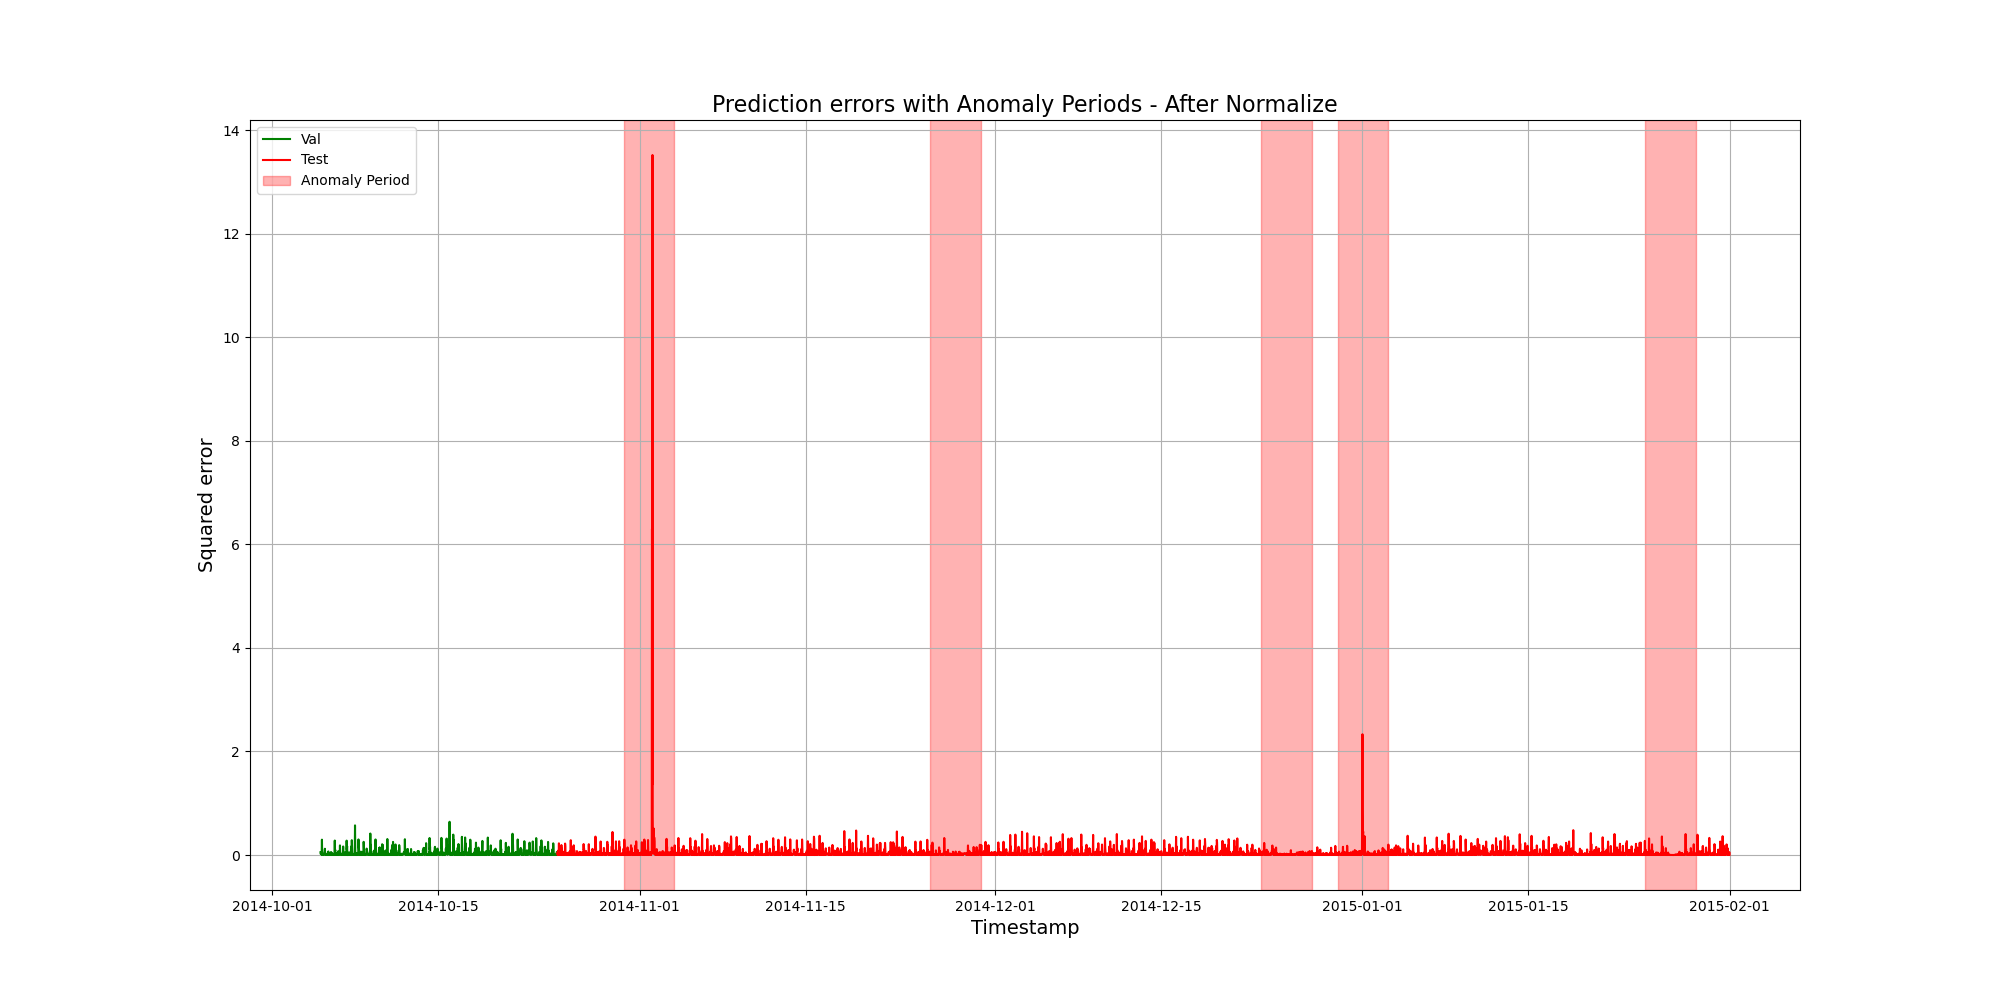
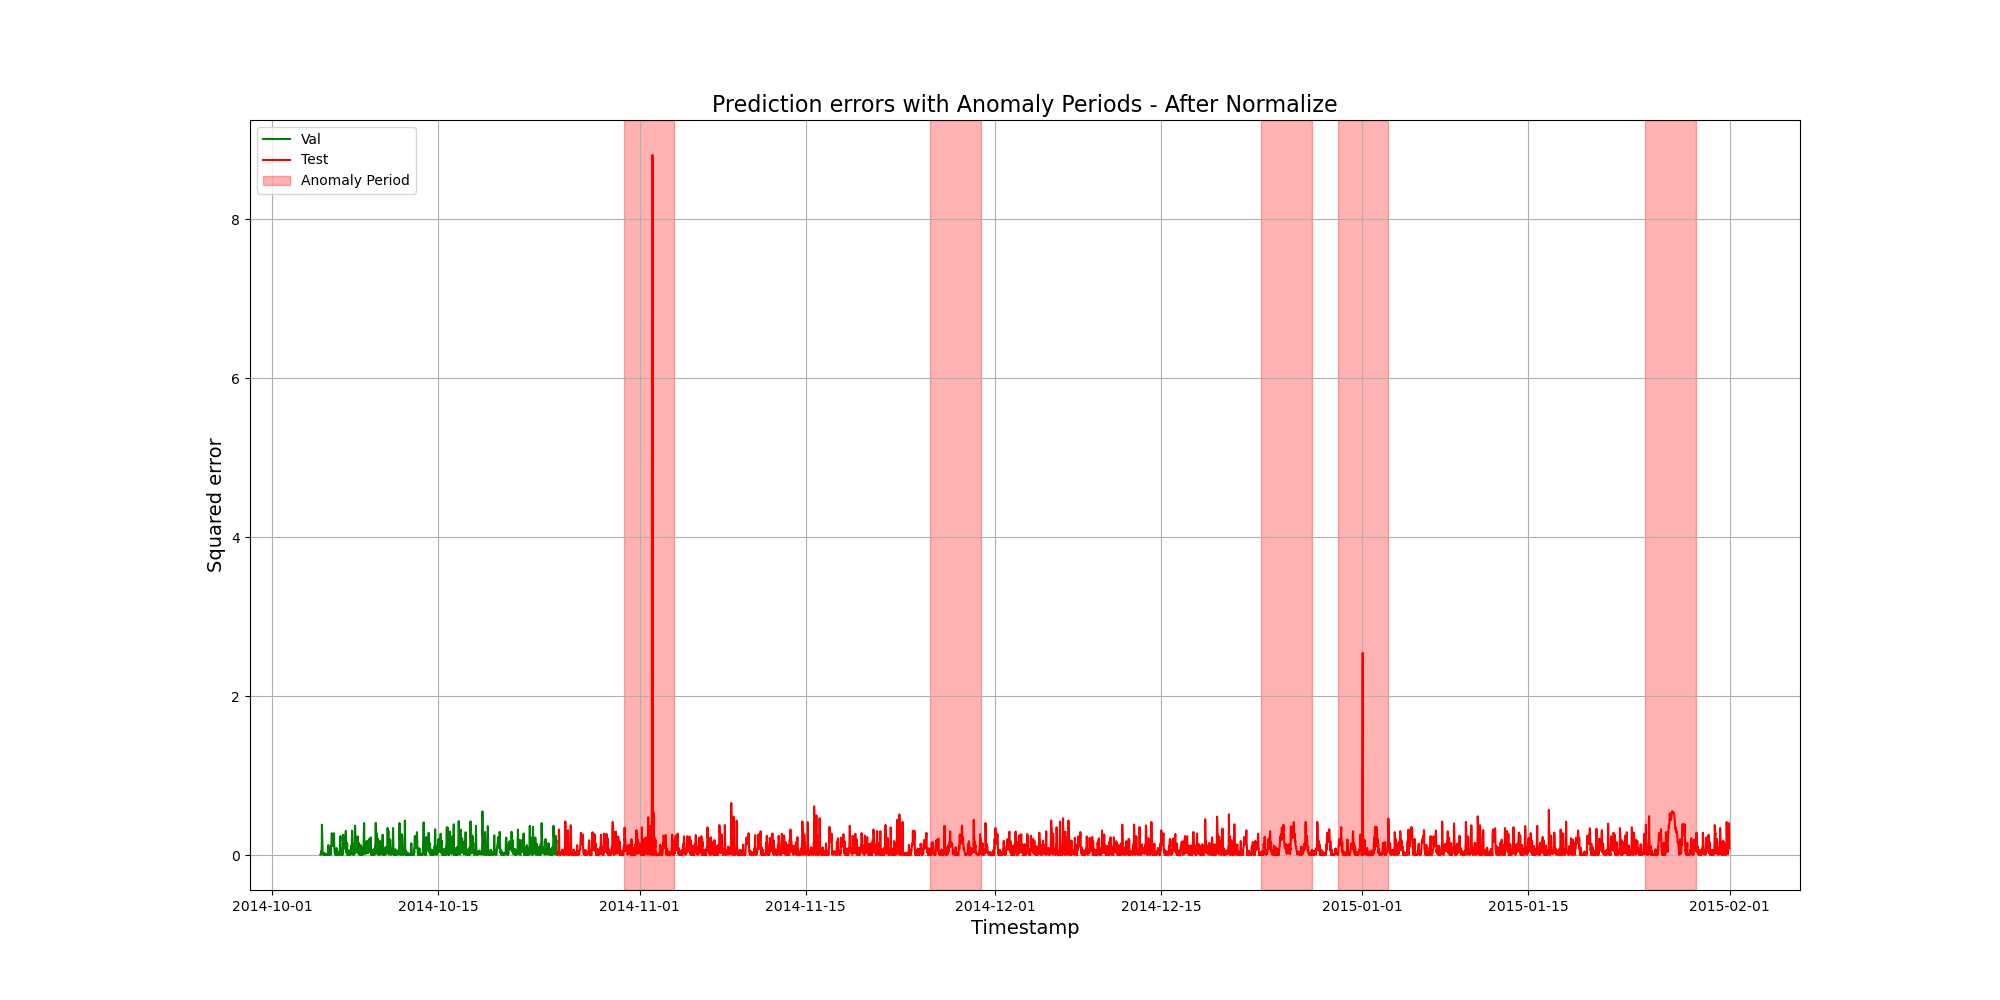
revin

Changed region(s): [[0.155, 0.806, 0.868, 0.868], [0.093, 0.434, 0.124, 0.558]]

diff --git a/nyctaxi/trainers/lstm.py b/nyctaxi/trainers/lstm.py
@@ -1,5 +1,6 @@
 import sys
-sys.path.append("/home/svilhes/Bureau/these/nyctaxi/")
+#sys.path.append("/home/svilhes/Bureau/these/nyctaxi/")
+sys.path.append("/Users/samyvilhes/Desktop/these/AnoTS/nyctaxi/") # mac
 
 import torch 
 import torch.nn as nn 
@@ -13,14 +14,17 @@ import numpy as np
 from dataset import get_datasets
 from models.lstm import LSTM
 
-DEVICE="cuda"
+DEVICE="mps"
 WINDOW=32
 BATCH_SIZE=128
 LR=1e-4
 EPOCHS=150
 
+REVIN=True
+ext = "_rev" if REVIN else ""
+
 trainset, valset, testset, dataset = get_datasets(window=WINDOW, lbl_as_feat=False)
-model = LSTM(num_cont_var=4, embedding_dim=2, hidden_size=128, num_layers=2, bidirectional=True).to(DEVICE)
+model = LSTM(num_cont_var=4, embedding_dim=2, hidden_size=128, num_layers=2, bidirectional=True, revin=REVIN).to(DEVICE)
 
 trainloader = DataLoader(trainset, batch_size=BATCH_SIZE, shuffle=True)
 criterion = nn.MSELoss()
@@ -33,6 +37,7 @@ for epoch in pbar:
     for x_cont, x_cat, target, anomaly in trainloader:
         x_cont, x_cat, target = x_cont.to(DEVICE), x_cat.to(DEVICE), target.unsqueeze(1).to(DEVICE)
         preds = model(x_cont, x_cat)
+        preds = preds.squeeze(2)
         loss = criterion(preds, target)
         optimizer.zero_grad()
         loss.backward()
@@ -42,7 +47,7 @@ for epoch in pbar:
     
 
 checkpoint = {"state_dict":model.state_dict()}
-torch.save(checkpoint, 'checkpoints/lstm.pkl')
+# torch.save(checkpoint, f'checkpoints/lstm{ext}.pkl')
 
 valloader = DataLoader(valset, batch_size=BATCH_SIZE, shuffle=False)
 testloader = DataLoader(testset, batch_size=BATCH_SIZE, shuffle=False)
@@ -54,6 +59,7 @@ with torch.no_grad():
     for x_cont, x_cat, target, anomaly in valloader:
             x_cont, x_cat, target = x_cont.to(DEVICE), x_cat.to(DEVICE), target.unsqueeze(1).to(DEVICE)
             val_preds = model(x_cont, x_cat)
+            val_preds = val_preds.squeeze(2)
             errors = torch.abs(target - val_preds)
             val_errors.append(errors)
 val_errors = torch.cat(val_errors).cpu()
@@ -65,14 +71,15 @@ model.eval()
 with torch.no_grad():
     for x_cont, x_cat, target, anomaly in testloader:
             x_cont, x_cat, target = x_cont.to(DEVICE), x_cat.to(DEVICE), target.unsqueeze(1).to(DEVICE)
-            val_preds = model(x_cont, x_cat)
-            errors = torch.abs(target - val_preds)
+            test_preds = model(x_cont, x_cat)
+            test_preds = test_preds.squeeze(2)
+            errors = torch.abs(target - test_preds)
             test_errors.append(errors)
 test_errors = torch.cat(test_errors).cpu()
 test_scores = - test_errors
 test_p_values = (1 + torch.sum(test_scores >= val_scores.squeeze(1), dim=1)) / (len(val_scores.squeeze(1)) + 1)
 
-np.save('pvalues/lstm.npy', test_p_values.numpy())
+np.save(f'pvalues/lstm{ext}.npy', test_p_values.numpy())
 # Visu
 train_indices = dataset.train_indices
 val_indices = dataset.val_indices
@@ -125,5 +132,5 @@ plt.xlabel('Timestamp', fontsize=14)
 plt.ylabel('Squared error', fontsize=14)
 plt.grid(True)
 
-plt.savefig('figures/lstm/prederrors.png')
+plt.savefig(f'figures/lstm/prederrors{ext}.png')
 plt.close()

diff --git a/nyctaxi/trainers/transam.py b/nyctaxi/trainers/transam.py
@@ -1,5 +1,6 @@
 import sys
-sys.path.append("/home/svilhes/Bureau/these/nyctaxi/")
+#sys.path.append("/home/svilhes/Bureau/these/nyctaxi/")
+sys.path.append("/Users/samyvilhes/Desktop/these/AnoTS/nyctaxi/") # mac
 
 import torch 
 import torch.nn as nn 
@@ -13,14 +14,17 @@ import numpy as np
 from dataset import get_datasets
 from models.transam import TransAm
 
-DEVICE="cuda"
+DEVICE="mps"
 WINDOW=32
 BATCH_SIZE=128
 LR=1e-4
 EPOCHS=150
 
+REVIN=True
+ext = "_rev" if REVIN else ""
+
 trainset, valset, testset, dataset = get_datasets(window=WINDOW, lbl_as_feat=False)
-model = TransAm().to(DEVICE)
+model = TransAm(revin=REVIN).to(DEVICE)
 
 trainloader = DataLoader(trainset, batch_size=BATCH_SIZE, shuffle=True)
 criterion = nn.MSELoss()
@@ -33,6 +37,7 @@ for epoch in pbar:
     for x_cont, x_cat, target, anomaly in trainloader:
         x_cont, x_cat, target = x_cont.to(DEVICE), x_cat.to(DEVICE), target.unsqueeze(1).to(DEVICE)
         preds = model(x_cont, x_cat)
+        preds = preds.squeeze(2)
         loss = criterion(preds, target)
         optimizer.zero_grad()
         loss.backward()
@@ -42,7 +47,7 @@ for epoch in pbar:
     
 
 checkpoint = {"state_dict":model.state_dict()}
-torch.save(checkpoint, 'checkpoints/transam.pkl')
+# torch.save(checkpoint, f'checkpoints/transam{ext}.pkl')
 
 valloader = DataLoader(valset, batch_size=BATCH_SIZE, shuffle=False)
 testloader = DataLoader(testset, batch_size=BATCH_SIZE, shuffle=False)
@@ -54,6 +59,7 @@ with torch.no_grad():
     for x_cont, x_cat, target, anomaly in valloader:
             x_cont, x_cat, target = x_cont.to(DEVICE), x_cat.to(DEVICE), target.unsqueeze(1).to(DEVICE)
             val_preds = model(x_cont, x_cat)
+            val_preds = val_preds.squeeze(2)
             errors = torch.abs(target - val_preds)
             val_errors.append(errors)
 val_errors = torch.cat(val_errors).cpu()
@@ -65,14 +71,15 @@ model.eval()
 with torch.no_grad():
     for x_cont, x_cat, target, anomaly in testloader:
             x_cont, x_cat, target = x_cont.to(DEVICE), x_cat.to(DEVICE), target.unsqueeze(1).to(DEVICE)
-            val_preds = model(x_cont, x_cat)
-            errors = torch.abs(target - val_preds)
+            test_preds = model(x_cont, x_cat)
+            test_preds = test_preds.squeeze(2)
+            errors = torch.abs(target - test_preds)
             test_errors.append(errors)
 test_errors = torch.cat(test_errors).cpu()
 test_scores = - test_errors
 test_p_values = (1 + torch.sum(test_scores >= val_scores.squeeze(1), dim=1)) / (len(val_scores.squeeze(1)) + 1)
 
-np.save('pvalues/transam.npy', test_p_values.numpy())
+np.save(f'pvalues/transam{ext}.npy', test_p_values.numpy())
 # Visu
 train_indices = dataset.train_indices
 val_indices = dataset.val_indices
@@ -125,5 +132,5 @@ plt.xlabel('Timestamp', fontsize=14)
 plt.ylabel('Squared error', fontsize=14)
 plt.grid(True)
 
-plt.savefig('figures/transam/prederrors.png')
+plt.savefig(f'figures/transam/prederrors{ext}.png')
 plt.close()

diff --git a/nyctaxi/trainers/patchtst.py b/nyctaxi/trainers/patchtst.py
@@ -1,6 +1,6 @@
 import sys
-sys.path.append("/home/svilhes/Bureau/these/nyctaxi/")
-# sys.path.append("/Users/samyvilhes/Desktop/these/AnoTS/nyctaxi") on my mac
+#sys.path.append("/home/svilhes/Bureau/these/nyctaxi/")
+sys.path.append("/Users/samyvilhes/Desktop/these/AnoTS/nyctaxi") #on my mac
 
 import torch 
 import torch.nn as nn 
@@ -16,12 +16,15 @@ from types import SimpleNamespace
 from dataset import get_datasets
 from models.patchtst.patchtst import Model
 
-DEVICE="cuda"
+DEVICE="cpu"
 BATCH_SIZE=128
-EPOCHS=100
+EPOCHS=10
 
 CONTEXT_WINDOW=10
 TARGET_WINDOW=1
+
+REVIN=False
+ext = "_rev" if REVIN else ""
 
 trainset, valset, testset, dataset = get_datasets(window=CONTEXT_WINDOW, lbl_as_feat=False)
 
@@ -40,7 +43,7 @@ args = {
     "stride":8,
     "individual":1,
     "padding_patch":"end",
-    "revin":1,
+    "revin":int(REVIN),
     "affine":1,
     "subtract_last":0,
     "decomposition":1,
@@ -84,7 +87,7 @@ checkpoint = {
     'model':model.state_dict(),
     'args':args
     }
-torch.save(checkpoint, 'checkpoints/patchtst.pkl')
+#torch.save(checkpoint, f'checkpoints/patchtst{ext}.pkl')
 
 valloader = DataLoader(valset, batch_size=BATCH_SIZE, shuffle=False)
 testloader = DataLoader(testset, batch_size=BATCH_SIZE, shuffle=False)
@@ -118,7 +121,7 @@ test_errors = torch.cat(test_errors).cpu()
 test_scores = - test_errors
 test_p_values = (1 + torch.sum(test_scores >= val_scores.squeeze(1), dim=1)) / (len(val_scores.squeeze(1)) + 1)
 
-np.save('pvalues/patchtst.npy', test_p_values.numpy())
+np.save(f'pvalues/patchtst{ext}.npy', test_p_values.numpy())
 # Visu
 train_indices = dataset.train_indices
 val_indices = dataset.val_indices
@@ -171,5 +174,5 @@ plt.xlabel('Timestamp', fontsize=14)
 plt.ylabel('Squared error', fontsize=14)
 plt.grid(True)
 
-plt.savefig('figures/patchtst/prederrors.png')
+plt.savefig(f'figures/patchtst/prederrors{ext}.png')
 plt.close()

diff --git a/nyctaxi/models/lstm.py b/nyctaxi/models/lstm.py
@@ -1,16 +1,25 @@
 import torch
 import torch.nn as nn 
+from models.revin import RevIN
 
 class LSTM(nn.Module):
     def __init__(self, num_cont_var=4, embedding_dim=2, hidden_size=128, num_layers=2, bidirectional=True, revin=False):
         super(LSTM, self).__init__()
+
         self.revin = revin
+        if self.revin: self.revin_layer = RevIN(1, affine=True, subtract_last=False)
+
         self.dow_embed = nn.Embedding(num_embeddings=7, embedding_dim=embedding_dim)
         self.holiday_embed = nn.Embedding(num_embeddings=2, embedding_dim=embedding_dim)
         self.lstm = nn.LSTM(input_size=2*embedding_dim + num_cont_var, hidden_size=hidden_size, num_layers=num_layers, batch_first=True, bidirectional=bidirectional)
         self.fc_out = nn.Linear(in_features=(1+bidirectional)*hidden_size, out_features=1)
 
     def forward(self, x_cont, x_cat):
+
+        if self.revin: 
+            amount = x_cont[:,:,0].unsqueeze(2)
+            amount = self.revin_layer(amount, 'norm')
+            x_cont[:, :, 0] = amount.squeeze(-1)
 
         x_dow = x_cat[:, :,0].int()
         x_holiday = x_cat[:, :,1].int()
@@ -21,4 +30,8 @@ class LSTM(nn.Module):
         concatenated = torch.cat([x_cont, dow_embedded, holiday_embedded], dim=2)
         output, (hidden, cell) = self.lstm(concatenated)
         output = self.fc_out(output)
-        return output[:, -1, :]
+        output = output[:, -1, :].unsqueeze(1)
+        if self.revin:
+            output = self.revin_layer(output, "denorm")
+        
+        return output

diff --git a/nyctaxi/models/transam.py b/nyctaxi/models/transam.py
@@ -1,5 +1,6 @@
 import torch 
-import torch.nn as nn 
+import torch.nn as nn
+from models.revin import RevIN
 
 class PositionalEncoding(nn.Module):
     def __init__(self, d_model, max_len=5000):
@@ -19,8 +20,11 @@ class PositionalEncoding(nn.Module):
         return pe + x
     
 class TransAm(nn.Module):
-    def __init__(self, embedding_dim=2, num_cont_var=4, proj_size=250, num_layers=1, dropout=0.1):
+    def __init__(self, embedding_dim=2, num_cont_var=4, proj_size=250, num_layers=1, dropout=0.1, revin=False):
         super(TransAm, self).__init__()
+
+        self.revin = revin
+        if self.revin: self.revin_layer = RevIN(1, affine=True, subtract_last=False)
 
         feature_size = 2*embedding_dim + num_cont_var
 
@@ -44,6 +48,11 @@ class TransAm(nn.Module):
 
     def forward(self, x_cont, x_cat):
 
+        if self.revin: 
+            amount = x_cont[:,:,0].unsqueeze(2)
+            amount = self.revin_layer(amount, 'norm')
+            x_cont[:, :, 0] = amount.squeeze(-1)
+
         x_dow = x_cat[:, :,0].int()
         x_holiday = x_cat[:, :,1].int()
 
@@ -60,7 +69,12 @@ class TransAm(nn.Module):
 
         output = self.transformer_encoder(embedded, mask)
         output = self.decoder(output)
-        return output[:,-1, :]
+        output = output[:,-1, :].unsqueeze(1)
+
+        if self.revin:
+            output = self.revin_layer(output, "denorm")
+
+        return output
     
     def _generate_square_subsequent_mask(self, sz):
         mask = (torch.tril(torch.ones(sz, sz)) == 1)

diff --git a/nyctaxi/analysis.py b/nyctaxi/analysis.py
@@ -15,7 +15,6 @@ st.subheader('Anomalies: NYC Marathon / Thanksgiving / Christmas / New Year / Sn
 WINDOW=10
 BATCH_SIZE=128
 
-
 if 'dataset' not in st.session_state:
     trainset, valset, testset, dataset = get_datasets(window=WINDOW, lbl_as_feat=False)
     st.session_state['dataset'] = dataset
@@ -32,6 +31,10 @@ model = st.sidebar.selectbox(label="Model: ", options=["LSTM", "DOC", "AELSTM", 
 model = model.lower().replace('-', '')
 
 threshold = st.sidebar.slider(label="threshold: ", min_value=0.001, max_value=0.05, step=0.001, value=0.01, format="%.3f" )
+
+if model in (["lstm", "transam", "patchtst"]):
+    revin = st.sidebar.checkbox("Use revin?")
+ext = "_rev" if revin else ""
 
 train_indices = dataset.train_indices
 val_indices = dataset.val_indices
@@ -50,7 +53,7 @@ anomaly_periods = dataset.anomaly_periods
 full_plot = Image.open("figures/ts.png")
 full_plot_norm = Image.open("figures/normalize_ts.png")
 valtest = Image.open("figures/valtest.png")
-prederrors = Image.open(f"figures/{model}/prederrors.png")
+prederrors = Image.open(f"figures/{model}/prederrors{ext}.png")
 
 st.image(full_plot)
 st.image(full_plot_norm)
@@ -73,7 +76,7 @@ elif model=="tranad":
 elif model=="patchtst":
     st.header('PatchTST - Prediction error')
 
-p_values = np.load(f"pvalues/{model}.npy")
+p_values = np.load(f"pvalues/{model}{ext}.npy")
 
 st.image(valtest)
 st.image(prederrors)

diff --git a/nyctaxi/dataset.py b/nyctaxi/dataset.py
@@ -16,10 +16,7 @@ class TSDataset(Dataset):
             (pd.to_datetime(period["start"]), pd.to_datetime(period["end"]))
             for period in config["anomaly_periods"]
         ]
-
-        self.cont_vars = ["value", "hour_min", "gap_holiday", "t"]
-        self.cat_vars = ["day_of_week", "holiday"]
-
+        
         self.window = window
         self.lbl_as_feat = lbl_as_feat
 

diff --git a/nyctaxi/models/patchtst/backbone.py b/nyctaxi/models/patchtst/backbone.py
@@ -8,7 +8,7 @@ import numpy as np
 
 #from collections import OrderedDict
 from models.patchtst.layers import *
-from models.patchtst.revin import RevIN
+from models.revin import RevIN
 
 # Cell
 class PatchTST_backbone(nn.Module):
